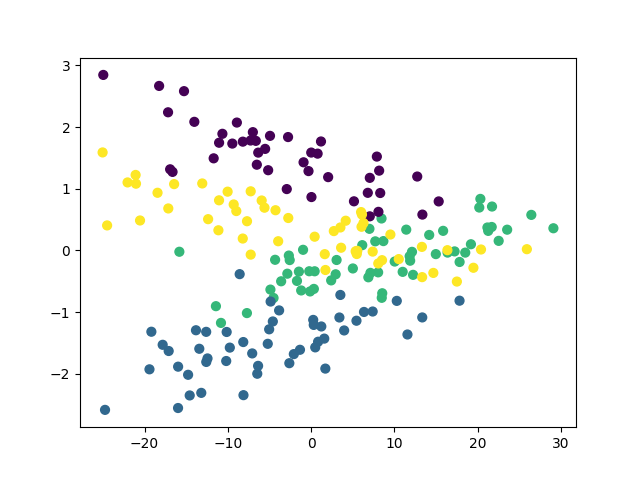
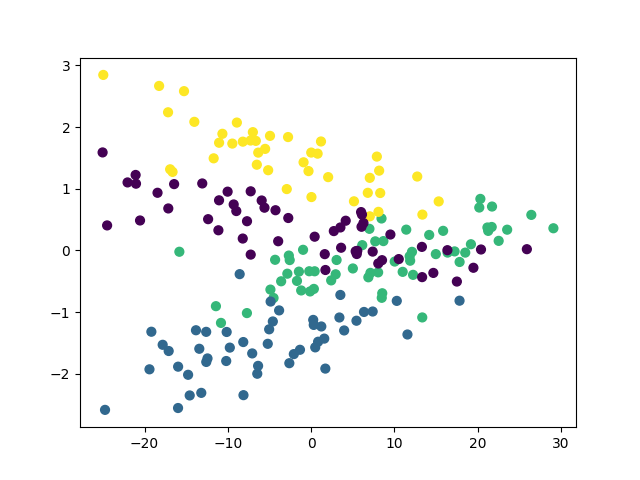
Eigenvalues estimation for common noise subspace
Mouve the computation of the common covariance matrix at the initialization

diff --git a/hdda.py b/hdda.py
@@ -78,7 +78,7 @@ class HDDC():
         self.icl = []         # icl values of the model
         self.niter = None     # Number of iterations
         self.X = []           # Matrix to project samples when n<d
-        self.W = []           # Common covariance matrix
+        self.dL = []          # Common covariance matrix eigenvalues
         self.T = []           # Membership matrix
 
     def fit(self, X, y=None):
@@ -143,6 +143,28 @@ class HDDC():
             self.T = sp.zeros((self.n, self.C))
             self.T[sp.arange(self.n), label-1] = 1
 
+        # Compute the whole covariance matrix and its eigenvalues if needed
+        if self.model in ('M2', 'M4', 'M6', 'M8'):
+            X_ = (X - sp.mean(X, axis=0))
+            # Use dsyrk to take benefit of the product symmetric matrices
+            # X^{t}X or XX^{t}
+            # Transpose to put in fortran order
+            if self.n >= self.d:
+                W = dsyrk(1.0/self.n, X_.T, trans=False)
+            else:
+                W = dsyrk(1.0/self.n, X_.T, trans=True)
+            del X_
+
+            # Compute intrinsic dimension on the whole data set
+            L = linalg.eigh(W, eigvals_only=True, lower=False)
+            idx = L.argsort()[::-1]
+            L = L[idx]
+            # Chek for numerical errors
+            L[L < EPS] = EPS
+            self.dL = sp.absolute(sp.diff(L))
+            self.dL /= self.dL.max()
+            del W, L
+
         # Initialization of the parameter
         self.m_step(X)
         ll = self.e_step(X)
@@ -174,7 +196,6 @@ class HDDC():
 
         # Remove temporary variables
         self.T = None
-        self.W = None
         self.X = None
         return self
 
@@ -186,19 +207,6 @@ class HDDC():
         class.
 
         """
-
-        # Compute the whole covariance matrix
-        if self.model in ('M2', 'M4', 'M6', 'M8'):
-            X_ = (X - sp.mean(X, axis=0))
-            # Use dsyrk to take benefit of the product symmetric matrices
-            # X^{t}X or XX^{t}
-            # Transpose to put in fortran order
-            if self.n >= self.d:
-                self.W = dsyrk(1.0/self.n, X_.T, trans=False)
-            else:
-                self.W = dsyrk(1.0/self.n, X_.T, trans=True)
-            X_ = None
-
         # Learn the model for each class
         C_ = self.C
         c_delete = []
@@ -254,29 +262,8 @@ class HDDC():
         self.C_.append(C_)
         self.C = C_
 
-        # Estimation of the signal subspace
-        # Common size subspace models
-        if self.model in ('M2', 'M4', 'M6', 'M8'):
-            # Compute intrinsic dimension on the whole data set
-            L = linalg.eigh(self.W, eigvals_only=True, lower=False)
-            idx = L.argsort()[::-1]
-            L = L[idx]
-            # Chek for numerical errors
-            L[L < EPS] = EPS
-            # To take into account python broadcasting a[:p] = a[0]...a[p-1]
-            dL, p = sp.absolute(sp.diff(L)), 1
-            dL /= dL.max()
-            while sp.any(dL[p:] > self.th):
-                p += 1
-            min_dim = int(min(min(self.ni), self.d))
-            # Check if (p >= ni-1 or d-1) and p > 0
-            if p < (min_dim - 1):
-                self.pi = [p for c in xrange(self.C)]
-            else:
-                self.pi = [max((min_dim-2), 1) for c in xrange(self.C)]
-
-        # Specific size subspace models
-        elif self.model in ('M1', 'M3', 'M5', 'M7'):
+        # Estimation of the signal subspace for specific size subspace models
+        if self.model in ('M1', 'M3', 'M5', 'M7'):
             for c in xrange(self.C):
                 # Scree test
                 dL, pi = sp.absolute(sp.diff(self.L[c])), 1
@@ -287,6 +274,17 @@ class HDDC():
                     self.pi.append(pi)
                 else:
                     self.pi.append(1)
+        elif self.model in ('M2', 'M4', 'M6', 'M8'):
+            dL, p = self.dL, 1
+            while sp.any(dL[p:] > self.th):
+                p += 1
+            min_dim = int(min(min(self.ni), self.d))
+            # Check if (p >= ni-1 or d-1) and p > 0
+            if p < (min_dim - 1):
+                self.pi = [p for c in xrange(self.C)]
+            else:
+                self.pi = [max((min_dim-2), 1) for c in xrange(self.C)]
+            del dL, p, idx
 
         # Estim signal part
         self.a = [sL[:sPI] for sL, sPI in zip(self.L, self.pi)]
@@ -412,7 +410,8 @@ class HDDC():
         K *= (0.5)
         Km = K.max(axis=1)
         Km.shape = (n, 1)
-        # logsumexp trick
+
+        # Logsumexp trick
         LL = (sp.log(sp.exp(K-Km).sum(axis=1))[:, sp.newaxis]+Km).sum()
 
         return LL
@@ -488,4 +487,3 @@ class HDDC():
         self.Q = []
         self.trace = []
         self.X = []
-        self.W = None

diff --git a/script_crabs.py b/script_crabs.py
@@ -8,7 +8,7 @@ from sklearn import mixture
 MODEL = 'M2'
 C = 4  # For the example with do not fit the number of classes
 th = 0.01  # The threshold for the Cattel test
-
+tol = 0.00001
 data = sp.load('crabs.npz')
 X = data['x']
 Y = data['y']
@@ -20,8 +20,9 @@ plt.scatter(Xp[:, 0], Xp[:, 1], c=Y, s=40)
 plt.savefig('2D_true_labels.png')
 
 bic, icl = [], []
-for model_ in ['M1', 'M2', 'M3', 'M4', 'M5']:
-    model = hdda.HDDC(C=C, th=th, model=model_, init='random')
+for model_ in ['M1', 'M2', 'M3', 'M4', 'M5', 'M6', 'M7', 'M8']:
+    model = hdda.HDDC(C=C, th=th, model=model_,
+                      init='random', tol=tol)
     model.fit(X)
     bic.append(model.bic)
     icl.append(model.icl)
@@ -30,23 +31,23 @@ plt.figure()
 plt.plot(bic)
 plt.plot(icl)
 plt.legend(("BIC", "ICL"))
-plt.xticks(sp.arange(5), ('M1', 'M2', 'M3', 'M4', 'M5'))
+plt.xticks(sp.arange(8), ('M1', 'M2', 'M3', 'M4', 'M5', 'M6', 'M7', 'M8'))
 plt.grid()
 plt.savefig('bic_icl_crabs.png')
 
-model = hdda.HDDC(C=C,th=th,model=MODEL)
+model = hdda.HDDC(C=C, th=th, model=MODEL, tol=tol)
 model.fit(X)
 model.bic
-yp=model.predict(X)
+yp = model.predict(X)
 
 plt.figure()
-plt.scatter(Xp[:,0],Xp[:,1],c=yp,s=40)
+plt.scatter(Xp[:, 0], Xp[:, 1], c=yp, s=40)
 plt.savefig("2D_hdda.png")
 
 clf = mixture.GaussianMixture(n_components=4, covariance_type='full')
 clf.fit(X)
-yp=clf.predict(X)
+yp = clf.predict(X)
 
 plt.figure()
-plt.scatter(Xp[:,0],Xp[:,1],c=yp,s=40)
+plt.scatter(Xp[:, 0], Xp[:, 1], c=yp, s=40)
 plt.savefig('2D_gmm.png')
